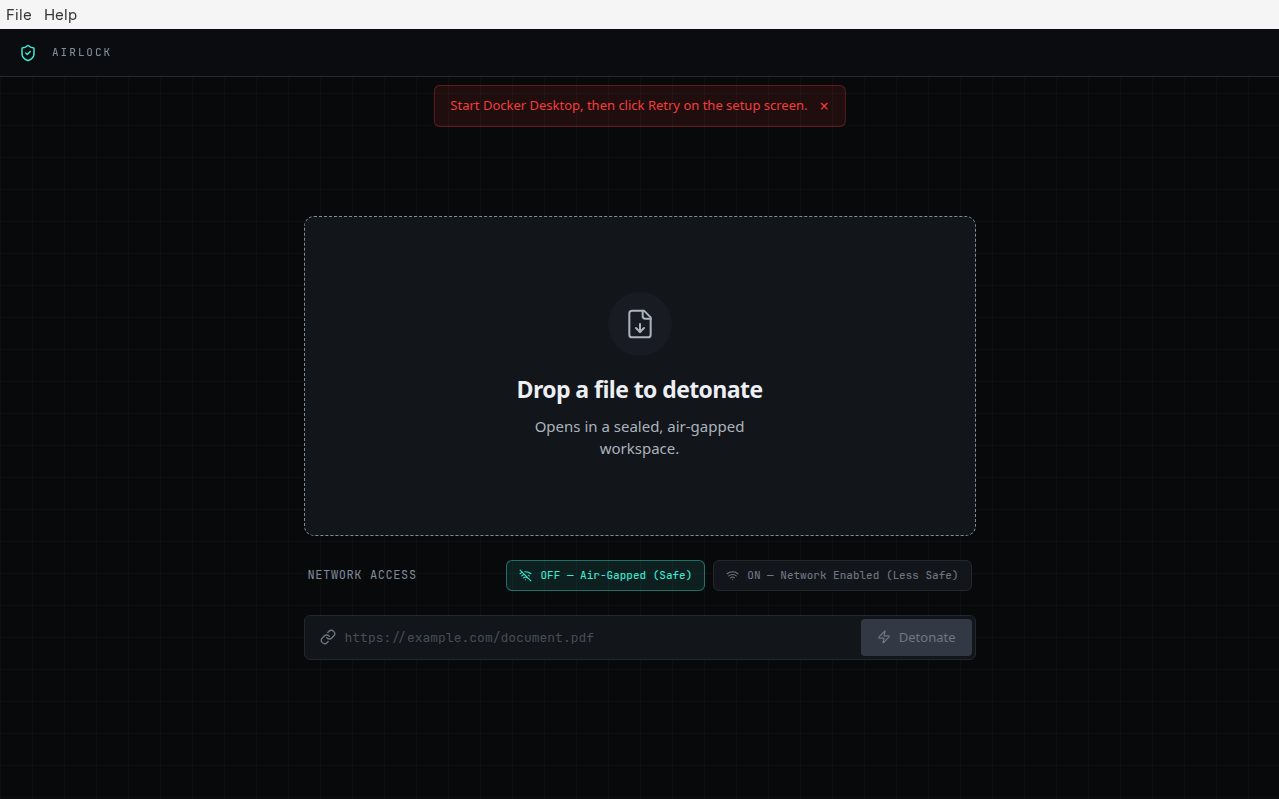
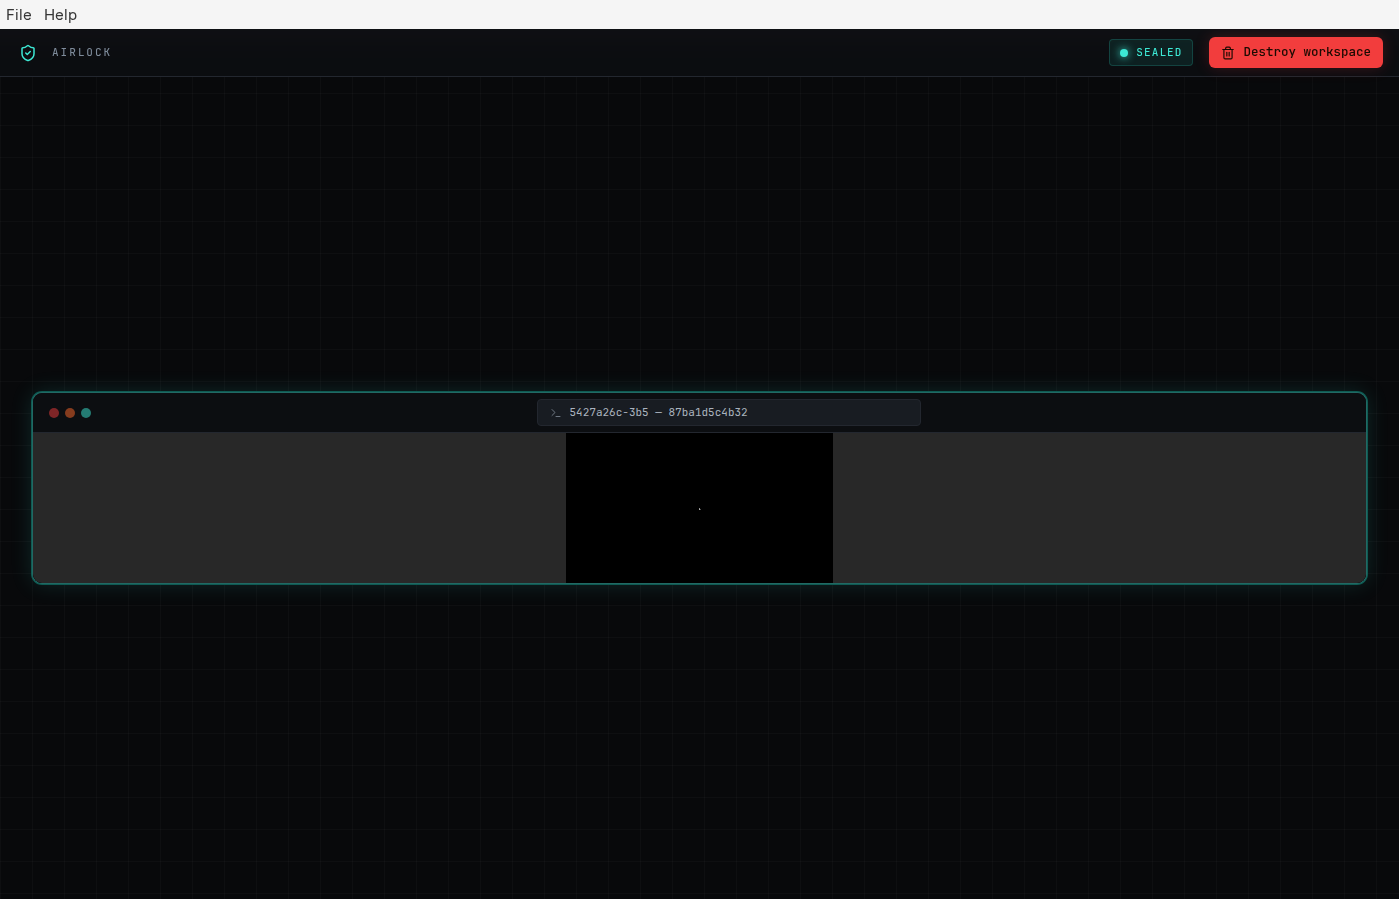
fix: readiness race for CLI file open and stable VNC probe
Queue session opens until sandbox readiness is known, refresh readiness
before showing Docker errors, and use node:http for VNC health checks to
avoid undici crashes on Node 24. Re-capture main-session and demo GIF.

diff --git a/packages/ui/src/main/index.ts b/packages/ui/src/main/index.ts
@@ -28,7 +28,7 @@ import {
 } from '@airlock/core';
 import { DOCKER_DOWNLOAD_URL } from './dockerCheck.js';
 import { resolveSetupGuidePath } from './docsPath.js';
-import { refreshReadiness } from './readiness.js';
+import { getReadiness, refreshReadiness } from './readiness.js';
 import { getSandboxBuildContextPath } from './sandboxContext.js';
 import {
   IPC_CHANNELS,
@@ -98,17 +98,30 @@ function pickOpenablePath(argv: string[]): string | undefined {
   });
 }
 
-function deliverOpenFileToRenderer(filePath: string): void {
+async function deliverOpenFileToRenderer(filePath: string): Promise<void> {
   if (!mainWindow) {
     return;
   }
+
   const send = () => {
     mainWindow?.webContents.send('airlock:open-file', filePath);
   };
-  if (mainWindow.webContents.isLoading()) {
-    mainWindow.webContents.once('did-finish-load', send);
-  } else {
+
+  const deliver = async () => {
+    try {
+      await getReadiness();
+    } catch {
+      // Renderer will queue the open until sandbox setup finishes.
+    }
     send();
+  };
+
+  if (mainWindow.webContents.isLoading()) {
+    mainWindow.webContents.once('did-finish-load', () => {
+      void deliver();
+    });
+  } else {
+    await deliver();
   }
 }
 
@@ -121,11 +134,6 @@ function getAppIconPath(): string {
 }
 
 configureSandboxImage({ appVersion: VERSION, ghcrOwner: 'lukeholmes' });
-
-if (process.env.AIRLOCK_HEADLESS_GL === '1') {
-  app.commandLine.appendSwitch('use-gl', 'swiftshader');
-  app.commandLine.appendSwitch('disable-gpu-sandbox');
-}
 
 let mainWindow: BrowserWindow | null = null;
 
@@ -483,7 +491,7 @@ app.whenReady().then(async () => {
 
   const cliFile = pickOpenablePath(process.argv);
   if (cliFile) {
-    deliverOpenFileToRenderer(cliFile);
+    void deliverOpenFileToRenderer(cliFile);
   }
 
   app.on('activate', () => {
@@ -553,7 +561,7 @@ if (!gotTheLock) {
 
       const fileOrUrl = pickOpenablePath(argv);
       if (fileOrUrl) {
-        deliverOpenFileToRenderer(fileOrUrl);
+        void deliverOpenFileToRenderer(fileOrUrl);
       }
     }
   });

diff --git a/packages/ui/src/renderer/AirlockApp.tsx b/packages/ui/src/renderer/AirlockApp.tsx
@@ -69,6 +69,7 @@ export default function AirlockApp() {
 
   const sessionStartInFlight = useRef(false);
   const ignitionIntervalRef = useRef<ReturnType<typeof setInterval> | null>(null);
+  const pendingSessionInput = useRef<AirlockInput | null>(null);
 
   const viewState = viewStateFromSession(session);
   const canStartSession = (readiness?.canStartSession ?? false) && !firstRun.visible;
@@ -135,12 +136,23 @@ export default function AirlockApp() {
         return;
       }
 
-      if (!canStartSession) {
-        if (!readiness?.docker.available) {
+      const activeReadiness = readiness ?? (await ipc.getReadiness());
+      if (readiness === null) {
+        setReadiness(activeReadiness);
+      }
+
+      const readyForSession =
+        activeReadiness.canStartSession &&
+        activeReadiness.docker.available &&
+        activeReadiness.sandboxImage.available;
+
+      if (!readyForSession || firstRun.visible) {
+        if (!activeReadiness.docker.available) {
           setError('Start Docker Desktop, then click Retry on the setup screen.');
-        } else {
-          setError('Complete sandbox setup before opening a workspace.');
+          return;
         }
+        pendingSessionInput.current = input;
+        setError(null);
         return;
       }
 
@@ -177,8 +189,17 @@ export default function AirlockApp() {
         sessionStartInFlight.current = false;
       }
     },
-    [startIgnitionLogs, canStartSession, readiness],
+    [startIgnitionLogs, readiness, firstRun.visible],
   );
+
+  useEffect(() => {
+    if (!ipc || !canStartSession || !pendingSessionInput.current) {
+      return;
+    }
+    const input = pendingSessionInput.current;
+    pendingSessionInput.current = null;
+    void startSession(input);
+  }, [canStartSession, startSession, ipc]);
 
   const handleFilePath = useCallback(
     async (filePath: string) => {

diff --git a/packages/core/src/docker/ContainerManager.ts b/packages/core/src/docker/ContainerManager.ts
@@ -16,6 +16,8 @@
 import { execSync } from 'node:child_process';
 import fs from 'node:fs';
 import path from 'node:path';
+import http from 'node:http';
+
 import Dockerode from 'dockerode';
 import { log } from '../debug/logger.js';
 import { ensureIsolatedNetwork } from './network.js';
@@ -272,6 +274,21 @@ function resolveVncUrls(info: Dockerode.ContainerInspectInfo): {
   return { vncUrl, vncPageUrl };
 }
 
+function probeLocalHttpOk(url: string, timeoutMs = 2000): Promise<boolean> {
+  return new Promise((resolve) => {
+    const req = http.get(url, { timeout: timeoutMs }, (res) => {
+      res.resume();
+      const code = res.statusCode ?? 0;
+      resolve(code >= 200 && code < 400);
+    });
+    req.on('timeout', () => {
+      req.destroy();
+      resolve(false);
+    });
+    req.on('error', () => resolve(false));
+  });
+}
+
 async function waitForVncReady(
   container: Dockerode.Container,
   timeoutMs = 15000,
@@ -283,13 +300,9 @@ async function waitForVncReady(
     const urls = resolveVncUrls(info);
 
     if (urls.vncUrl) {
-      try {
-        const response = await fetch(urls.vncUrl);
-        if (response.ok) {
-          return urls;
-        }
-      } catch {
-        // KasmVNC not accepting connections yet
+      const ready = await probeLocalHttpOk(urls.vncUrl);
+      if (ready) {
+        return urls;
       }
     }
 

diff --git a/docs/CLEAN_MACHINE_TEST.md b/docs/CLEAN_MACHINE_TEST.md
@@ -62,7 +62,9 @@ No isolation settings were weakened to pass tests.
 
 1. **Production UI shipped without Tailwind/CSS** — `packages/ui/src/renderer/main.tsx` never imported `./index.css`, so `pnpm build` + `electron .` rendered unstyled HTML (plain fonts, broken layout). Fixed by importing the stylesheet; Vite now emits `assets/main-*.css` linked from `dist/renderer/index.html`.
 2. **Duplicate ignition log lines** — overlapping session start (second-instance argv picked the Electron binary path; duplicate IPC log appends). Fixed with `sessionStartInFlight`, deduped setup log lines, and safer `pickOpenablePath()` for CLI/second-instance file opens.
-3. **Bundled sandbox build failed without BuildKit** — `ensureSandboxImageReady` used dockerode’s legacy `buildImage`, which cannot parse heredoc `COPY` or set `TARGETARCH`. **Fix:** prefer `docker buildx build --load` with `TARGETARCH` build-arg; default `ARG TARGETARCH=amd64` in Dockerfile; `pnpm sandbox:build` uses buildx.
+3. **False “Start Docker Desktop” banner on CLI open** — `readiness` was still `null` when `airlock:open-file` fired, so the renderer treated Docker as unavailable. Fixed by refreshing readiness in `startSession`, queueing opens until sandbox setup completes, and awaiting readiness in main before delivering CLI paths.
+4. **Session start crash on Node 24 (undici)** — `fetch()` during VNC readiness probes could throw `assert(!this.paused)`. Replaced with `node:http` probes in `waitForVncReady`.
+5. **Bundled sandbox build failed without BuildKit** — `ensureSandboxImageReady` used dockerode’s legacy `buildImage`, which cannot parse heredoc `COPY` or set `TARGETARCH`. **Fix:** prefer `docker buildx build --load` with `TARGETARCH` build-arg; default `ARG TARGETARCH=amd64` in Dockerfile; `pnpm sandbox:build` uses buildx.
 2. **`pnpm sandbox:build` on legacy docker** — fails without buildx (documented; CI already uses Buildx).
 
 ### Not fixed (larger / follow-up)
